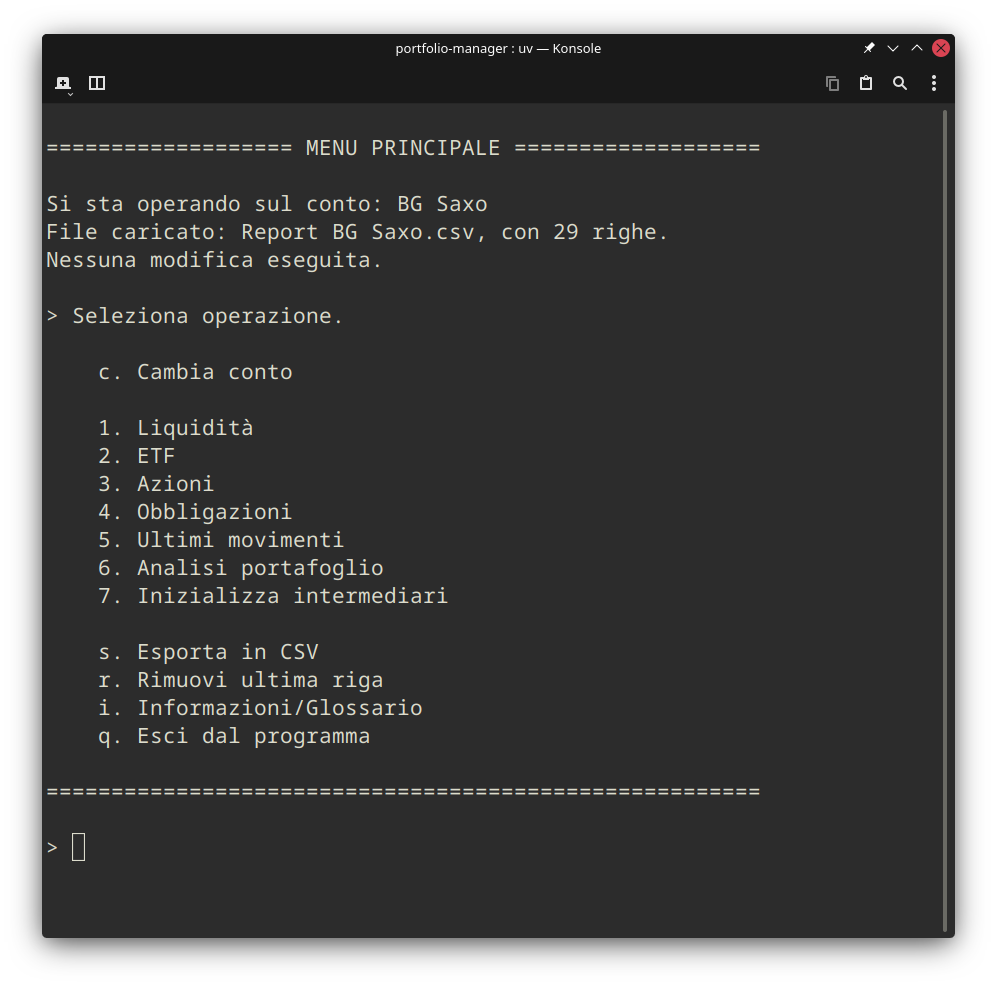
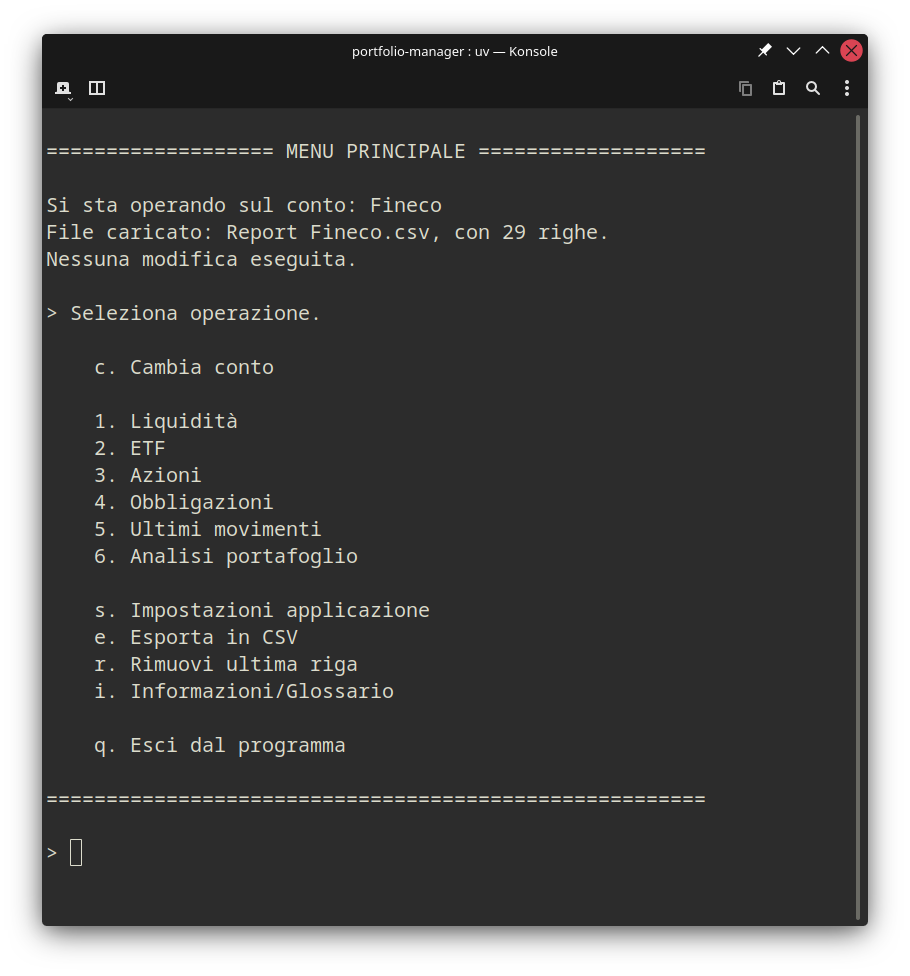
fixed a bug that prevented VaR computation if all currently active positions were transacted with a single currencty (e.g. all EUR)

Changed region(s): [[0.0308, 0.0307, 0.7692, 0.9529], [0.8, 0.0307, 0.9846, 0.9529], [0.3692, 0.0307, 0.6154, 0.0615]]

diff --git a/utils/analysis.py b/utils/analysis.py
@@ -6,7 +6,7 @@ import matplotlib.pyplot as plt
 from itertools import chain
 
 from utils.date_utils import get_date, get_pf_date
-from utils.operations_account import portfolio_history, get_asset_value, get_tickers, aggregate_positions
+from utils.account import portfolio_history, get_asset_value, get_tickers, aggregate_positions
 from utils.other_utils import round_half_up, wrong_input
 import utils.newton as newton
 
@@ -98,12 +98,12 @@ def summary(brokers, data, save_path):
         total_flows.append(flows)
         total_flows_dates.append(flows_dates)
 
-        print(f"\n    NAV (al {dt}): {nav}€")
-        print(f"\t- Liquidità: {current_liq}€")
-        print(f"\t- Valore Titoli: {asset_value}€")
-        print(f"    Liquidità Impegnata: {historic_liq}€")
-        print(f"    P&L: {round_half_up(pl)}€")
-        print(f"    P&L comprendente il non realizzato: {round_half_up(pl_unrealized)}€")
+        print(f"\n    NAV (al {dt}): {nav:.2f}€")
+        print(f"\t- Liquidità: {current_liq:.2f}€")
+        print(f"\t- Valore Titoli: {asset_value:.2f}€")
+        print(f"    Liquidità Impegnata: {historic_liq:.2f}€")
+        print(f"    P&L: {round_half_up(pl):.2f}€")
+        print(f"    P&L comprendente il non realizzato: {round_half_up(pl_unrealized):.2f}€")
         print(f"    Rendimento totale (XIRR): {xirr_full:.2%}")
         print(f"    Rendimento annualizzato (XIRR): {xirr_ann:.2%}\n")
 
@@ -121,7 +121,7 @@ def summary(brokers, data, save_path):
             print("\t ---")
         else:
             for pos in positions:
-                print(f"\t- {pos["ticker"]}    PMC: {pos["pmc"]}€    Prezzo attuale: {round_half_up(pos["price"], decimal="0.0001")}€    QT: {pos["quantity"]}    Controvalore: {round_half_up(pos["value"])}€")
+                print(f"\t- {pos["ticker"]}    PMC: {pos["pmc"]:.4f}€    Prezzo attuale: {round_half_up(pos["price"], decimal="0.0001"):.4f}€    QT: {pos["quantity"]}    Controvalore: {round_half_up(pos["value"]):.2f}€")
 
 
     print("\n\n\nTotale Portafoglio " + "="*70)
@@ -172,12 +172,12 @@ def summary(brokers, data, save_path):
         print("\n    Non è stato possibile reperire alcuna posizione attiva tra tutti i conti.\n    Statistiche non calcolabili.")  
 
 # Display results ============================================================
-    print(f"\n    NAV (al {dt}): {round_half_up(sum(total_nav))}€")
-    print(f"\t- Liquidità: {round_half_up(sum(total_current_liq))}€")
-    print(f"\t- Valore Titoli: {round_half_up(sum(total_asset_value))}€")
-    print(f"    Liquidità Impegnata: {round_half_up(sum(total_historic_liq))}€\n")
-    print(f"    P&L: {round_half_up(sum(total_pl))}€")
-    print(f"    P&L comprendente il non realizzato: {round_half_up(sum(total_pl_unrealized))}€\n")
+    print(f"\n    NAV (al {dt}): {round_half_up(sum(total_nav)):.2f}€")
+    print(f"\t- Liquidità: {round_half_up(sum(total_current_liq)):.2f}€")
+    print(f"\t- Valore Titoli: {round_half_up(sum(total_asset_value)):.2f}€")
+    print(f"    Liquidità Impegnata: {round_half_up(sum(total_historic_liq)):.2f}€\n")
+    print(f"    P&L: {round_half_up(sum(total_pl)):.2f}€")
+    print(f"    P&L comprendente il non realizzato: {round_half_up(sum(total_pl_unrealized)):.2f}€\n")
     print(f"    Rendimento")
     print(f"\t- XIRR totale: {xirr_total_full:.2%}")
     print(f"\t- XIRR annualizzato: {xirr_total_ann:.2%}")
@@ -368,77 +368,155 @@ def var_mc(data):
 
         # weights for active positions and cash
         aggr_positions = aggregate_positions(total_positions)  # only opened positions at current time
-        asset_value = [pos["value"] for pos in aggr_positions]
+        assets_value = [pos["value"] for pos in aggr_positions]
         asset_tickers = [pos["ticker"] for pos in aggr_positions]
-        sum_active_values = sum(asset_value)
-        weights = asset_value / sum_active_values
+
         cash = sum(total_liquidity)
+        portfolio_value = sum(assets_value)
+        weights = assets_value / portfolio_value
+        portfolio_value = portfolio_value + cash
+        
 
         print("    Scaricamento dei dati storici da Yahoo Finance...")
-        usd_prices_df = yf.download(usd_tickers, start=start_ref_date, end=end_dt, progress=False)
-        eur_prices_df = yf.download(eur_tickers, start=start_ref_date, end=end_dt, progress=False)
-        exch_df = yf.download("USDEUR=X",start=start_ref_date, end=end_dt, progress=False)
-        usd_prices_df = usd_prices_df["Close"]
-        eur_prices_df = eur_prices_df["Close"]
-        exch_df = exch_df["Close"]
 
-        common_dates = usd_prices_df.index.intersection(eur_prices_df.index)
-        common_dates = common_dates.intersection(exch_df.index)
+        # 1. Costruisci un'unica lista di tutti i ticker necessari
+        tickers_to_download = []
+        if usd_tickers:
+            tickers_to_download.extend(usd_tickers)
+        if eur_tickers:
+            tickers_to_download.extend(eur_tickers)
 
-        usd_prices_df = usd_prices_df.loc[common_dates]
-        eur_prices_df = eur_prices_df.loc[common_dates]
-        exch_df = exch_df.loc[common_dates]
-        usd_prices_df = usd_prices_df.mul(exch_df["USDEUR=X"], axis=0)
+        # 2. Aggiungi il tasso di cambio se *qualsiasi* ticker è presente
+        if tickers_to_download:
+            tickers_to_download.append("USDEUR=X")
+        else:
+            print("    Nessun ticker da scaricare.")
+            prices_df = pd.DataFrame([])
 
-        prices_df = pd.concat([usd_prices_df, eur_prices_df], axis=1)
-        prices_df = prices_df[asset_tickers]
+        # 3. Esegui UNA SOLA chiamata di download (solo se necessario)
+        if tickers_to_download:
+            all_data = yf.download(
+                tickers_to_download, 
+                start=start_ref_date, 
+                end=end_dt, 
+                progress=False
+            )
 
-        log_returns = np.log(prices_df/prices_df.shift(1))
+            # Gestione del caso in cui yf restituisce dati None/vuoti
+            if all_data.empty:
+                print("    Nessun dato scaricato da Yahoo Finance.")
+                prices_df = pd.DataFrame([])
+            else:
+                # 4. Estrai i prezzi 'Close'
+                if len(tickers_to_download) > 1:
+                    close_prices = all_data["Close"]
+                else:
+                    # Uniforma l'output a DataFrame se c'è un solo ticker
+                    close_prices = all_data["Close"].to_frame(name=tickers_to_download[0])
 
-        # strong assumption: expected returns are based on historical data
-        def expected_return(tickers, log_returns, weights):
-            means = []
-            for ticker, weight in zip(tickers, weights):
-                ticker_df = log_returns[ticker].copy()
-                ticker_df = ticker_df.dropna()
-                ticker_mean = ticker_df.mean() * weight
-                means.append(ticker_mean)
+                # 5. Prepara i DataFrame e calcola le date comuni
+                final_usd_df = pd.DataFrame([])
+                final_eur_df = pd.DataFrame([])
+                indices_to_intersect = []
 
-            return np.sum(means)
+                # Estrai exch_df per primo, dato che è necessario per tutti i casi
+                exch_df = close_prices["USDEUR=X"].dropna()
+                indices_to_intersect.append(exch_df.index)
 
-        def standard_deviation (cov_matrix, weights):
-            variance = weights.T @ cov_matrix @ weights
-            return np.sqrt(variance)
-        
-        cov_matrix = log_returns.cov()
-        portfolio_expected_return = expected_return(asset_tickers, log_returns, weights)
-        portfolio_std_dev = standard_deviation (cov_matrix, weights)
+                if eur_tickers:
+                    # Estrai i prezzi EUR e rimuovi i giorni in cui *nessun* ticker EUR aveva dati
+                    eur_prices_df = close_prices[eur_tickers].dropna(how='all')
+                    indices_to_intersect.append(eur_prices_df.index)
+                    final_eur_df = eur_prices_df
 
-        def random_z_score():
-            return np.random.normal(0, 1)
+                if usd_tickers:
+                    # Estrai i prezzi USD
+                    usd_prices_df = close_prices[usd_tickers].dropna(how='all')
+                    indices_to_intersect.append(usd_prices_df.index)
+                    
+                    # Converti i prezzi USD in EUR. .mul() allinea automaticamente gli indici
+                    final_usd_df = usd_prices_df.mul(exch_df, axis=0)
 
-        def scenario_gain_loss(current_liq, sum_active_values, portfolio_expected_return, portfolio_std_dev, z_score, days):
-            return current_liq + (sum_active_values * portfolio_expected_return * days) + (sum_active_values * portfolio_std_dev * z_score * np.sqrt(days))
-        
-        num_simulations = 50000
-        scenarioReturn = []
+                # 6. Calcola le date comuni
+                if not indices_to_intersect:
+                    common_dates = pd.DatetimeIndex([])
+                else:
+                    common_dates = indices_to_intersect[0]
+                    for idx in indices_to_intersect[1:]:
+                        common_dates = common_dates.intersection(idx)
+                
+                # 7. Costruisci la lista di DataFrame da concatenare *condizionalmente*
+                dfs_to_concat = []
+                if usd_tickers:
+                    # Filtra solo se il DataFrame non è vuoto
+                    dfs_to_concat.append(final_usd_df.loc[common_dates])
+                if eur_tickers:
+                    # Filtra solo se il DataFrame non è vuoto
+                    dfs_to_concat.append(final_eur_df.loc[common_dates])
 
-        for _ in range(num_simulations):
-            z_score = random_z_score()
-            scenarioReturn.append(scenario_gain_loss(current_liq, sum_active_values, portfolio_expected_return, portfolio_std_dev, z_score, projected_days))
+                # 8. Concatena i risultati
+                if dfs_to_concat:
+                    prices_df = pd.concat(dfs_to_concat, axis=1)
+                else:
+                    prices_df = pd.DataFrame([])
 
-        VaR = -np.percentile(scenarioReturn, 100 * (1 - confidence_interval))
-        print(f"\n    Value at Risk del portafoglio al {confidence_interval:.0%} IdC su {projected_days} giorni:    {VaR:.2f}€")
+            prices_df.to_csv("/home/atonello/Downloads/prices_df1.csv")
 
-        fig, ax = plt.subplots(figsize=(8, 6))
-        ax.hist(scenarioReturn, bins=100, density=True, color="lightgray")
-        ax.set_xlabel("Gain/Loss (€)")
-        ax.set_ylabel("Densità")
-        ax.axvline(-VaR, color='r', linestyle='dashed', linewidth=2, label=f'VaR al {confidence_interval:.0%} IdC: {VaR:.2f}€')
-        ax.legend()
-        fig.tight_layout()
-        fig.canvas.manager.set_window_title(f"Distribuzione del Portfolio Gain/Loss su {projected_days} giorni")
-        plt.show()
+
+
+            prices_df = prices_df[asset_tickers]
+            prices_df.to_csv("/home/atonello/Downloads/prices_df2.csv")
+
+            log_returns = np.log(prices_df/prices_df.shift(1))
+            log_returns = log_returns.dropna()
+
+            # strong assumption: expected returns are based on historical data
+            def expected_return(tickers, log_returns, weights):
+                means = []
+                for ticker, weight in zip(tickers, weights):
+                    ticker_df = log_returns[ticker].copy()
+                    ticker_df = ticker_df.dropna()
+                    ticker_mean = ticker_df.mean() * weight
+                    means.append(ticker_mean)
+                return np.sum(means)
+            
+            """def expected_return(weights, log_returns):
+                return np.sum(log_returns.mean()*weights)"""
+
+            def standard_deviation (cov_matrix, weights):
+                variance = weights.T @ cov_matrix @ weights
+                return np.sqrt(variance)
+            
+            cov_matrix = log_returns.cov()
+            portfolio_expected_return = expected_return(asset_tickers, log_returns, weights)
+            portfolio_std_dev = standard_deviation (cov_matrix, weights)
+
+            def random_z_score():
+                return np.random.normal(0, 1)
+
+            def scenario_gain_loss(portfolio_value, portfolio_expected_return, portfolio_std_dev, z_score, days):
+                return portfolio_value * portfolio_expected_return * days + (portfolio_value * portfolio_std_dev * z_score * np.sqrt(days))
+            
+            num_simulations = 50000
+            scenarioReturn = []
+
+            for _ in range(num_simulations):
+                z_score = random_z_score()
+                scenarioReturn.append(scenario_gain_loss(portfolio_value, portfolio_expected_return, portfolio_std_dev, z_score, projected_days))
+
+            VaR = -np.percentile(scenarioReturn, 100 * (1 - confidence_interval))
+            print(f"\n    Value at Risk del portafoglio al {confidence_interval:.0%} IdC su {projected_days} giorni:    {VaR:.2f}€")
+
+            fig, ax = plt.subplots(figsize=(8, 6))
+            ax.hist(scenarioReturn, bins=100, density=True, color="lightgray")
+            ax.set_xlabel("Gain/Loss (€)")
+            ax.set_ylabel("Densità")
+            ax.axvline(-VaR, color='r', linestyle='dashed', linewidth=2, label=f'VaR al {confidence_interval:.0%} IdC: {VaR:.2f}€')
+            ax.legend()
+            fig.tight_layout()
+            fig.canvas.manager.set_window_title(f"Distribuzione del Portfolio Gain/Loss su {projected_days} giorni")
+            plt.show()
     else:
         print("    Non è stata trovata alcuna posizione aperta tra tutti i conti.\n    Value at Risk nullo.")
+
     input("\nPremi Invio per continuare...")

diff --git a/main.py b/main.py
@@ -10,8 +10,8 @@ import json
 
 
 # these imports take 0.80-0.83 seconds
-import utils.operations_menu as mop
-import utils.operations_account as aop
+import utils.menu_operations as mop
+import utils.account as aop
 from utils.date_utils import get_date
 from utils.other_utils import wrong_input, create_defaults
 
@@ -122,7 +122,7 @@ if __name__ == "__main__":
                     if operation not in [1, 2, 3]:
                         raise ValueError
                 except:
-                    wrong_input()
+                    wrong_input("Scelta non valida.", suppress_error=True)
                 
                 print('\n  - Data operazione GG-MM-AAAA ("t" per data odierna)')            
                 dt, ref_date = get_date(df)
@@ -172,7 +172,7 @@ if __name__ == "__main__":
                     if operation not in [1, 2, 3, 4]:
                         raise ValueError
                 except:
-                    wrong_input()
+                    wrong_input("Scelta non valida.", suppress_error=True)
                 print()            
 
                 if operation == 1:
@@ -241,7 +241,7 @@ if __name__ == "__main__":
                     if operation not in [1, 2]:
                         raise ValueError
                 except:
-                    wrong_input()
+                    wrong_input("Scelta non valida.", suppress_error=True)
                 print()            
 
                 if operation == 1:

diff --git a/utils/account.py b/utils/account.py
@@ -211,7 +211,7 @@ def portfolio_history(start_ref_date, end_ref_date, data):
         prices_df = pd.DataFrame([])
 
         only_tickers = [t[0] for t in total_tickers]
-        print("\nScaricamento dei dati storici dei titoli da Yahoo Finance...")
+        print("\n    Scaricamento dei dati storici dei titoli da Yahoo Finance...")
         prices_df_raw = yf.download(only_tickers, start=start_ref_date, end=end_ref_date, progress=False)
         exch_df = yf.download("USDEUR=X",start=start_ref_date, end=end_ref_date, progress=False)
         

diff --git a/utils/other_utils.py b/utils/other_utils.py
@@ -21,9 +21,12 @@ def round_down(value, decimal="0.01"):
 
 
 
-def wrong_input(error=None):
-    print("\nI dati inseriti non sono corretti:")
-    print("ERRORE: " + error)
+def wrong_input(error="error not specified", suppress_error=False):
+    if suppress_error:
+        print("\n" + error)
+    else:
+        print("\nI dati inseriti non sono corretti:")
+        print("ERRORE: " + error)
     input("\nPremi Invio per tornare al Menu Principale...")
     raise KeyboardInterrupt
 

diff --git a/newrow.py b/newrow.py
@@ -2,7 +2,7 @@ import pandas as pd
 import numpy as np
 from datetime import datetime
 
-import utils.operations_account as aop
+import utils.account as aop
 from utils.other_utils import round_half_up
 from utils.fetch_utils import fetch_name
 

diff --git a/README.md b/README.md
@@ -32,7 +32,7 @@ Sono inoltre disponibili numerosi strumenti di analisi del rischio: VaR (Monte C
 
 Al primo avvio è richiesto il setup dei propri intermediari. Scegliere gli alias che si preferiscono.
 Ad esempio, con due conti Fineco e uno Directa: *Fineco Principale, Fineco 2, Directa*. Gli intermediari potranno inoltre essere aggiunti o rimossi successivamente, 
-ma è da tenere a mente che le modifiche non saranno retroattive (non si possono "rinominare" degli account già salvati; in quel caso, sarà necessario inserire nuovamente tutte le transazioni).
+ma è da tenere a mente non è possibile "rinominare" un account già salvato; in quel caso, sarà necessario inserire nuovamente tutte le transazioni.
 
 ***Utilizzo***
 
@@ -55,7 +55,10 @@ Successivamente verrà presentato il Menu Principale con le seguenti opzioni:
     - Analisi correlazione
     - Analisi Drawdown
     - VaR
-7. (Re)inizializzazione degli intermediari (come spiegato precedentemente)
+7. Impostazioni applicazione:
+    - Aggiungi conto/i
+    - Re-inizializza conti
+    - Reset completo dell'applicazione
 8. Esporta in csv: salva le modifiche eseguite fino a quel momento
 9. Rimuovi ultima riga del report
 10. Glossario con:
